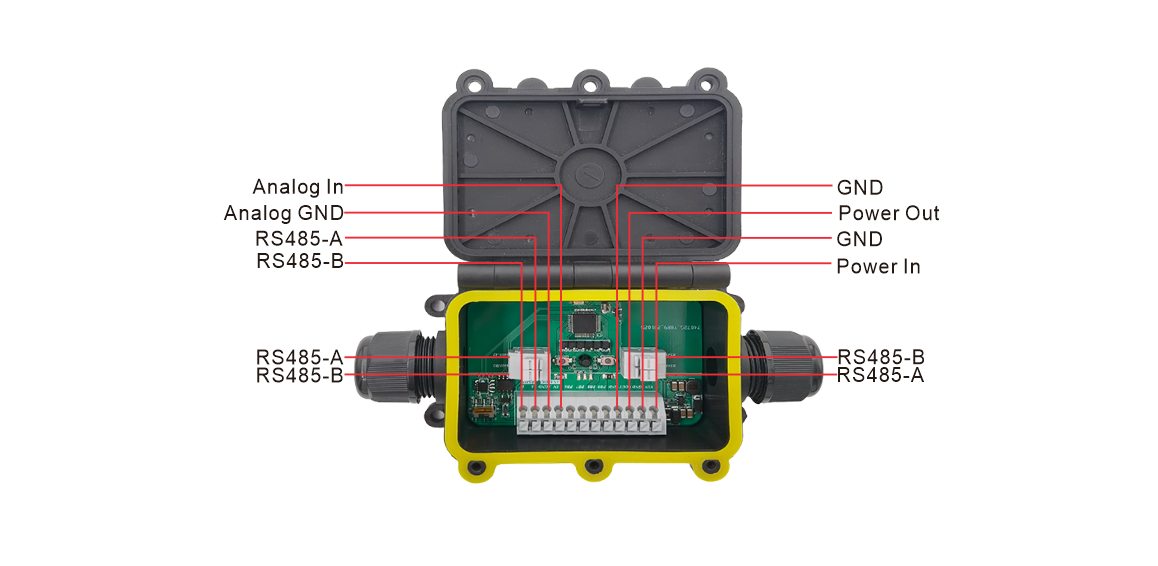
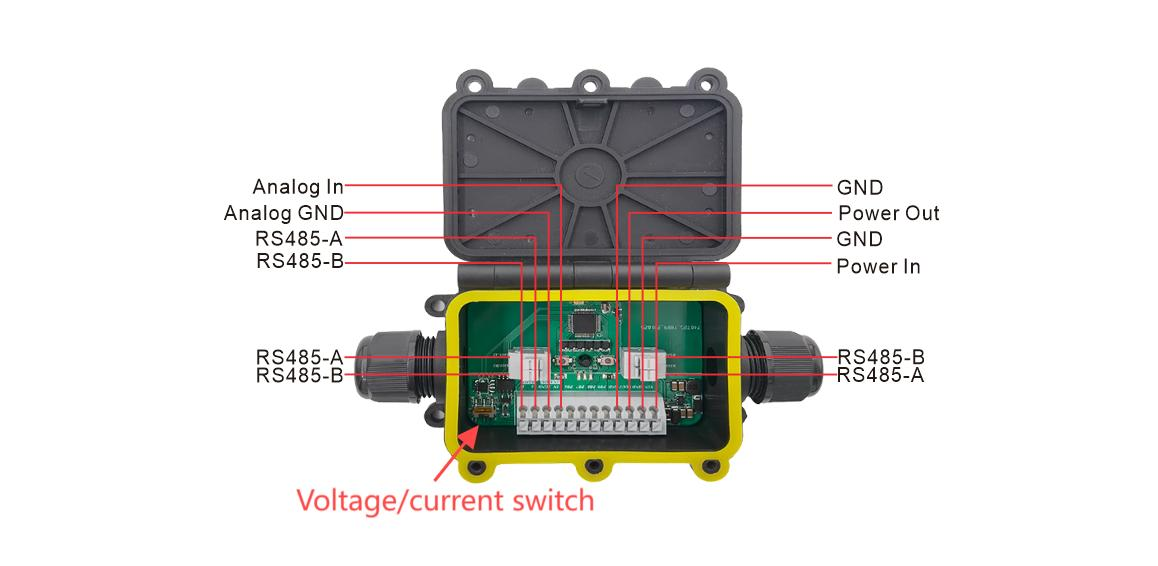
hri-485x polling command

diff --git a/doc/ready_to_use/hri-485x/source/hri-4851.md b/doc/ready_to_use/hri-485x/source/hri-4851.md
@@ -26,12 +26,15 @@
 
 ![](img/4851/ap.png)
 
+```{Warning} Note that if you have just configured another device, don't just refresh '192.168.4.1', you should retype it.
+```
+
 ## Configure
 1. Enter the configuration page, under the `Mode` option, select `Node`.
 
 ![](img/04.png)
 
-2. In general, HRI-4851 with the **same configuration** can communicate with each other. 
+2. In general, HRI-4851 with the same **Lora Parameters, Address, Group, Key** can communicate with each other. 
 
 ![](img/4851.png)
 
@@ -43,14 +46,14 @@
 
 3. By clicking the `Enable periodic query` option, you can set up to 10 polling commands, and when multiple commands are run at the same time, they will be executed automatically at five-second intervals.
 
-   ![](img/03.png)
+![](img/03.png)
 
 4. Click `Submit` when the configuration is complete. 
 
 **If you need to upload HRI-4851 data to the server, you need to use with HRI-4852: [HRI-4852 User Manual](docs.heltec.org/en/ready_to_use/hri-485x/hri-4852.html)**
 
 ## Data Format
-As shown above, HRI-4851 with the same parameters can communicate with each other, that is, A terminal sends *0xaa 0xbb*, and B terminal receives *0xaa 0xbb*.
+As shown above, HRI-4851 with the same parameters can communicate with each other, such as, A terminal sends *0xaa 0xbb*, and B terminal receives *0xaa 0xbb*.
 
 ![](img/05.png)
 

diff --git a/doc/ready_to_use/hri-485x/source/hri-4853.md b/doc/ready_to_use/hri-485x/source/hri-4853.md
@@ -21,13 +21,20 @@
 
 ![](img/12.png)
 
-2. In configuration mode (White LED flashed quickly), you can find HRI-485x's Wi-Fi, in general, it has the format"HRI-485x-xxxx", connect to this WiFi.
+2. In configuration mode (White LED flashed quickly), you can find HRI-485x's Wi-Fi, in general, it has the format "HRI-485x-xxxx", connect to this WiFi.
 
 ![](img/4853/wifi.jpg)
 
-3. Enter *192.168.4.1* through the browser. **Note that if you have just configured another device, don't just refresh '192.168.4.1', you should retype it.**
+3. Enter *192.168.4.1* through the browser.
 
 ![](img/4853/ap.png)
+
+```{Warning} Note that if you have just configured another device, don't just refresh '192.168.4.1', you should retype it.
+```
+
+4. By clicking the `Enable periodic query` option, you can set up to 10 polling commands, and when multiple commands are run at the same time, they will be executed automatically at five-second intervals.
+
+![](img/03.png)
 
 ## Configure
 1. The parameters in the red box in the following figure are consistent with the HRI-4851 to be connected, and the `Address` can be filled in at will.

diff --git a/doc/node/esp32/source/wireless_boot/quick_start.md b/doc/node/esp32/source/wireless_boot/quick_start.md
@@ -11,13 +11,13 @@ This topic describe the quick start and application mode for WirelessBoot .
 
 ## Install WirelessBoot Firmware
 
-For devices that already have WirelessBoot firmware preinstalled, such as Capsule Sensor V3, please skip this step, go to [Enter WirelessBoot Mode](enter_wirelessboot_mode).
+For **devices that already have WirelessBoot firmware preinstalled**, such as Capsule Sensor V3, please skip this step, go to [Enter WirelessBoot Mode](enter_wirelessboot_mode).
 
-For devices without WirelessBoot firmware, follow the steps below.
+For **devices without WirelessBoot firmware**, follow the steps below.
 
 1. Download the relevant WirelessBoot firmware.
 
-[Heltec WirelessBoot Firmware download page]()
+[Heltec WirelessBoot Firmware download page](https://resource.heltec.cn/download/WirelessBoot)
 
 2. Download and install ESP32 flash tool.
 

diff --git a/doc/node/esp32/source/capsule_sensor_v3/lorawan.md b/doc/node/esp32/source/capsule_sensor_v3/lorawan.md
@@ -83,17 +83,14 @@ When you are done in the configuration page, you can register the node with TTN/
 
 ![](img/lorawan/03.jpg)
 
-5. Return to the APP home page and wait a few moments, the device is activated.
+5. Return to the APP home page and wait a few moments, the device is activated. Once the device has collected six data points, it can plot them by selecting hours, days, or weeks as units.
 
 ![](img/lorawan/06.png)
 
-``` {Tips} Refresh the page method: Press and hold the area in the diagram to drop down.
+``` {Tip} Refresh the page method: Press and hold the area in the diagram to drop down. Once the device has collected six data points, it can plot them by selecting hours, days, or weeks as units.
 
 ```
 
-``` {Tips} Once the device has collected six data points, it can plot them by selecting hours, days, or weeks as units.
-
-```
 
 
 

diff --git a/doc/ready_to_use/junction_box/source/quick_start.md b/doc/ready_to_use/junction_box/source/quick_start.md
@@ -8,11 +8,16 @@
 ![](img/01.jpg)
 
 ### Power input and output
+
 The voltage range is 4.5~50V, and the output is as much as the input.
 ### RS485 to RS485
 All RS485 interfaces are connected, you can freely choose one RS485 interface access, and choose another RS485 interface output.
 ### 4~20mA/1~5V to RS485
-4~20mA/1~5V sensors are accessed from Analog_In and Analog_GND and output to Sensor_Hub/Wireless_ Aggregator from any RS485 interface.
+
+1. When you receive 4~20mA signal, you need to set the switch to "***I***"; when you receive 1~5V signal, then set the switch to "*** V***".
+
+2. 4~20mA/1~5V sensors are accessed from Analog_In and Analog_GND and output to Sensor_Hub/Wireless_ Aggregator from any RS485 interface.
+
 ## Dataframe Description
 ### Description
 - Baud Rate: 9600

diff --git a/doc/node/esp32/source/capsule_sensor_v3/wireless_boot.md b/doc/node/esp32/source/capsule_sensor_v3/wireless_boot.md
@@ -36,10 +36,10 @@ This topic describes how to enter WirelessBoot mode,and how to upload firmware i
 
 ![](img/13.png)
 
-``` {Tip} Notice the progress bar at the top left, please upload one firmware before uploading another.
+``` {Note} Notice the progress bar at the top left, please upload one firmware before uploading another.
 ```
 
-``` {Tip} Note the size of the capacity of each partition, do not allow the uploaded firmware size to exceed the capacity of the partition.
+``` {Note} Notice the size of the capacity of each partition, do not allow the uploaded firmware size to exceed the capacity of the partition.
 ```
 
 4. After the upload is complete, click `Run`,  then `Restart`.
